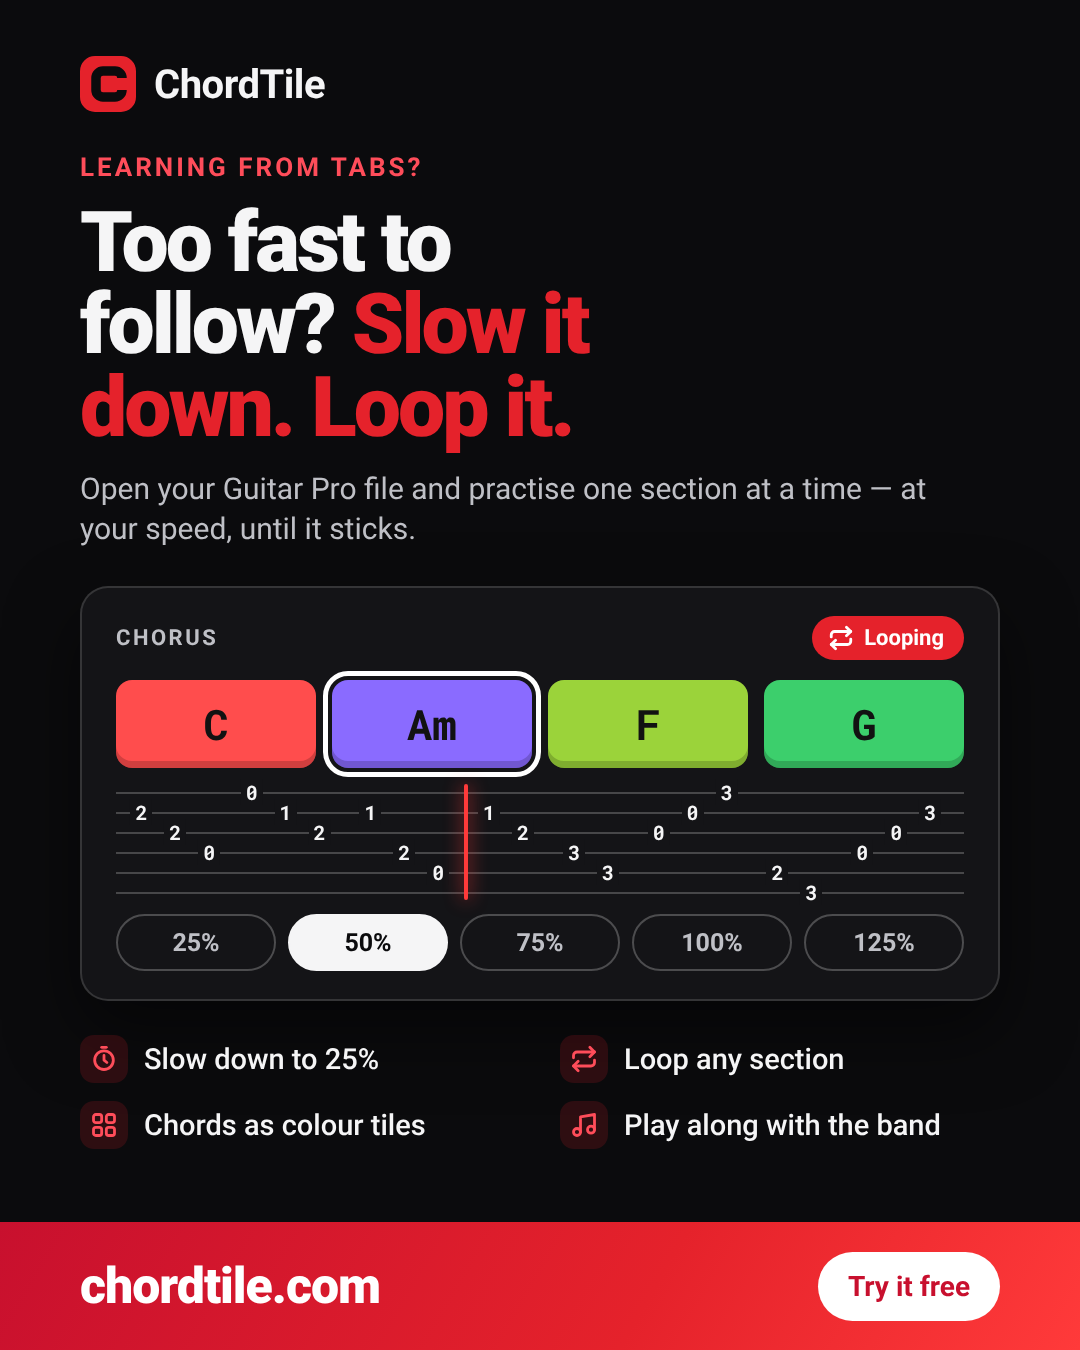
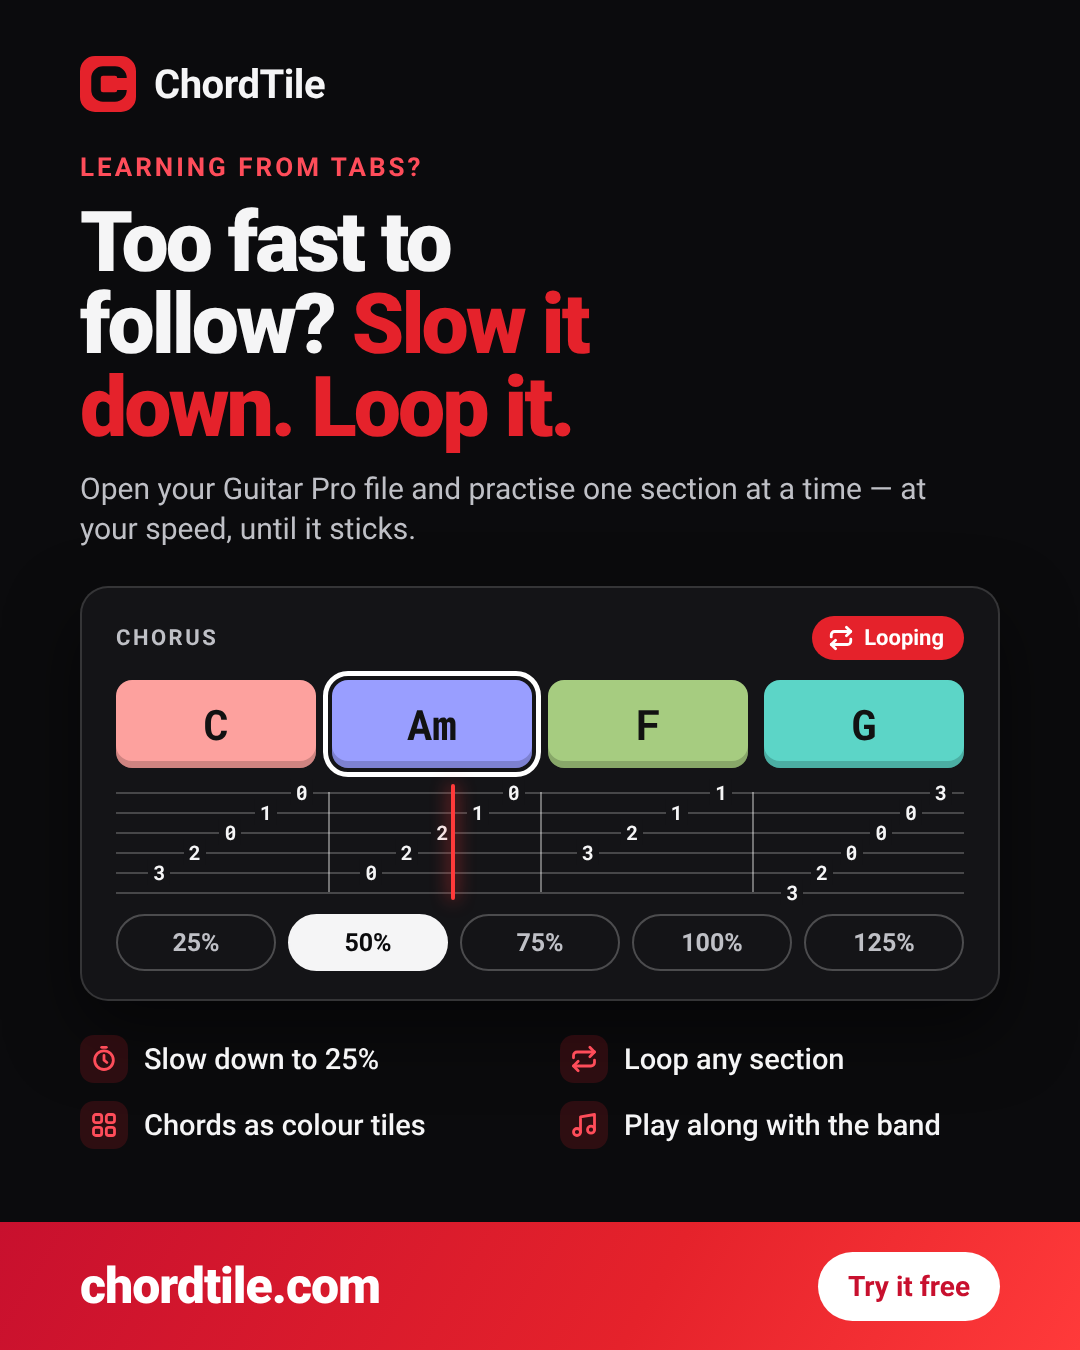
Fix the post's tab and tile colours
The C and F bars held notes outside the chord. Each bar is now the open
shape of the tile above it (C x32010, Am x02210, F xx3211, G 320003),
with bar lines, and the tiles use the site's current note colours.

Claude-Session: https://claude.ai/code/session_01S1BsPe1oz3xtKr6dmTxkap

diff --git a/marketing/instagram/post.html b/marketing/instagram/post.html
@@ -27,6 +27,7 @@ h1 em{font-style:normal;color:#e5222b}
 .tab{margin-top:24px;height:100px;position:relative}
 .tab i{position:absolute;left:0;right:0;height:2px;background:rgba(255,255,255,.22)}
 .tab b{position:absolute;font-family:M;font-size:20px;color:#f5f5f6;background:#141417;padding:0 5px;transform:translate(-50%,-50%)}
+.tab u{position:absolute;top:0;width:2px;height:100px;background:rgba(255,255,255,.4)}
 .tab .head{position:absolute;top:-8px;bottom:-8px;width:4px;background:#ff3a3a;border-radius:2px;box-shadow:0 0 18px #ff3a3a}
 .speeds{display:flex;gap:12px;margin-top:22px}
 .sp{flex:1;text-align:center;padding:12px 0;border-radius:999px;border:2px solid rgba(255,255,255,.24);font-weight:700;font-size:25px;color:#bfc0c6}
@@ -53,10 +54,10 @@ h1 em{font-style:normal;color:#e5222b}
   <div class="row"><div class="sec" data-k="sec"></div>
     <div class="loopbadge"><svg viewBox="0 0 24 24" fill="none" stroke="#fff" stroke-width="2.6" stroke-linecap="round" stroke-linejoin="round"><path d="M17 2l4 4-4 4"/><path d="M3 11V9a3 3 0 0 1 3-3h15"/><path d="M7 22l-4-4 4-4"/><path d="M21 13v2a3 3 0 0 1-3 3H3"/></svg><span data-k="loop"></span></div></div>
   <div class="tiles">
-    <div class="t" style="background:#ff4d4d">C</div>
-    <div class="t on" style="background:#8a6bff">Am</div>
-    <div class="t" style="background:#9bd33a">F</div>
-    <div class="t" style="background:#3ccf6c">G</div>
+    <div class="t" style="background:#fda19e">C</div>
+    <div class="t on" style="background:#999eff">Am</div>
+    <div class="t" style="background:#a6cc80">F</div>
+    <div class="t" style="background:#5cd5c7">G</div>
   </div>
   <div class="tab" id="tab"></div>
   <div class="speeds">
@@ -86,8 +87,13 @@ document.querySelectorAll('[data-k]').forEach(e=>e.innerHTML=L[e.dataset.k]);
 // mini tab: 6 strings with a few fret numbers and a playhead
 const tab=document.getElementById('tab');
 for(let s=0;s<6;s++){const i=document.createElement('i');i.style.top=(s*20)+'px';tab.appendChild(i);}
-const notes=[[3,1,'2'],[7,2,'2'],[11,3,'0'],[16,0,'0'],[20,1,'1'],[24,2,'2'],[30,1,'1'],[34,3,'2'],[38,4,'0'],[44,1,'1'],[48,2,'2'],[54,3,'3'],[58,4,'3'],[64,2,'0'],[68,1,'0'],[72,0,'3'],[78,4,'2'],[82,5,'3'],[88,3,'0'],[92,2,'0'],[96,1,'3']];
+// string 0 = high e ... 5 = low E. Open shapes picked as arpeggios, one bar under each tile.
+// C x32010 | Am x02210 | F xx3211 | G 320003
+const bars=[[[4,3],[3,2],[2,0],[1,1],[0,0]],[[4,0],[3,2],[2,2],[1,1],[0,0]],[[3,3],[2,2],[1,1],[0,1]],[[5,3],[4,2],[3,0],[2,0],[1,0],[0,3]]];
+const notes=[];
+bars.forEach((bar,k)=>{const step=21/bar.length;bar.forEach(([st,fr],j)=>notes.push([k*25+3+step*(j+.5),st,String(fr)]));});
+[25,50,75].forEach(x=>{const u=document.createElement('u');u.style.left=x+'%';tab.appendChild(u);});
 notes.forEach(([x,s,f])=>{const b=document.createElement('b');b.textContent=f;b.style.left=x+'%';b.style.top=(s*20)+'px';tab.appendChild(b);});
-const h=document.createElement('div');h.className='head';h.style.left='41%';tab.appendChild(h);
+const h=document.createElement('div');h.className='head';h.style.left='39.5%';tab.appendChild(h);
 </script>
 </body></html>
